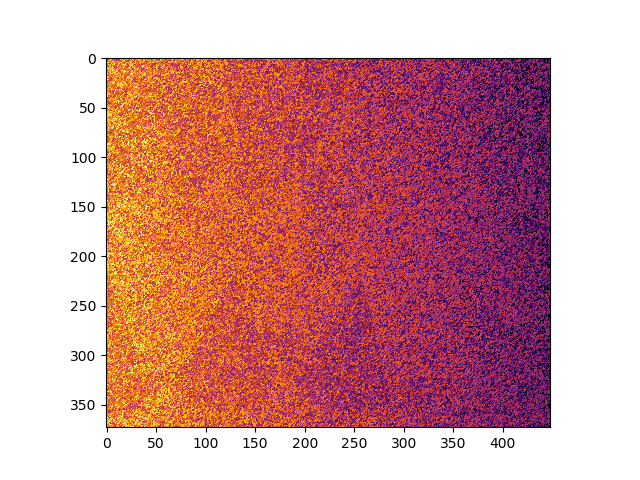
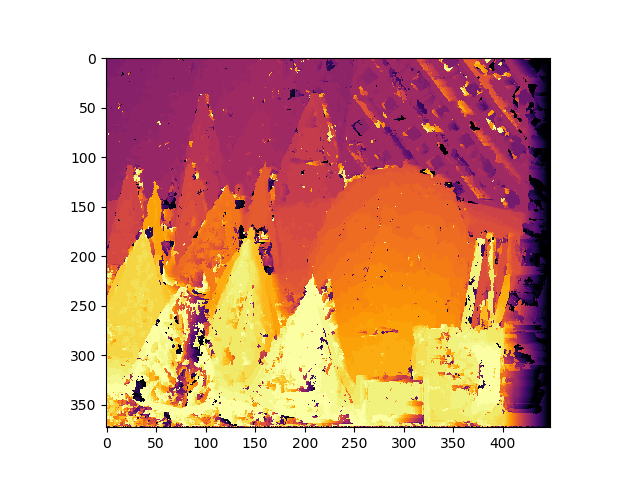
working for padding of 50

diff --git a/patchMatch.py b/patchMatch.py
@@ -1,82 +1,78 @@
 import matplotlib.pyplot as plt
 import numpy as np
+import time
 
 INTMAX = 99999999
 
 
 def get_patches(image):
-    height, width, depth = image.shape
-    patches = np.zeros((height-2, width-2, 3, 3, depth))
-    for x in range(1, height-1):
-        for y in range(1, width-1):
-            patches[x-1][y-1] = image[x-1:x+2, y-1:y+2, :]
+    height, width = image.shape
+    patches = np.zeros((height-2, width-2, 5, 5))
+    for x in range(2, height-2):
+        for y in range(2, width-2):
+            patches[x-1][y-1] = image[x-2:x+3, y-2:y+3]
     return patches
 
 
 class PatchMatch:
-    def __init__(self, left_path='left.png', right_path='left.png', output_path='patchMatch.png'):
+    def __init__(self, left_path='left.png', right_path='right.png', output_path='patchMatch.png'):
         self.output_path = output_path
 
         self.left_img = plt.imread(left_path)
         self.right_img = plt.imread(right_path)
 
-        # self.left_grey = np.mean(self.left_img, axis=2)
-        # self.right_grey = np.mean(self.right_img, axis=2)
-        self.imgHeight, self.imgWidth, self.imgDepth = np.shape(self.left_img)
+        self.left_grey = np.mean(self.left_img, axis=2)
+        self.right_grey = np.mean(self.right_img, axis=2)
+        self.imgHeight, self.imgWidth = np.shape(self.right_grey)
 
-        self.left_patches = get_patches(self.left_img)
-        self.right_patches = get_patches(self.right_img)
+        self.left_patches = get_patches(self.left_grey)
+        self.right_patches = get_patches(self.right_grey)
         self.offsets = self.initialize_offsets()
-        self.new_offsets = np.empty_like(self.offsets)
+        self.new_offsets = self.offsets.copy()
 
     def initialize_offsets(self):
-        offsets = np.zeros((self.imgHeight-2, self.imgWidth-2, 2), dtype=int)
-        for x in range(self.imgHeight-2):
-            for y in range(self.imgWidth-2):
-                x_rand = np.random.randint(0, self.imgHeight-2)
-                y_rand = np.random.randint(0, self.imgWidth-2)
-                offsets[x][y] = np.array([x_rand-x, y_rand-y])
-        return offsets
+        offsets = np.zeros((self.right_patches.shape[0], self.right_patches.shape[1]), dtype=int).T
+        for i, row in enumerate(offsets[:-1]):
+            row += np.random.randint(0, high=min(self.right_patches.shape[1]-i-1, 50), size=row.shape)
+        return offsets.T
 
     def patch_distance_error(self, x, y, offset):
-        x_offset, y_offset = offset
-        if x+x_offset < 0 or \
-                x+x_offset >= self.right_patches.shape[0] or \
-                y+y_offset < 0 or \
-                y+y_offset >= self.right_patches.shape[1]:
+        if y+offset >= self.right_patches.shape[1]:
             return INTMAX
-        left_patch = self.left_patches[x][y]
-        right_patch = self.right_patches[x+x_offset][y+y_offset]
-        distance_error = np.sum(np.abs(left_patch-right_patch))
+        right_patch = self.right_patches[x][y]
+        left_patch = self.left_patches[x][y+offset]
+        distance_error = np.sum(np.square(right_patch-left_patch))
         return distance_error
 
     def propagate_patch(self, x, y):
-        offset_args = [self.offsets[x][y], self.offsets[x-1][y], self.offsets[x][y-1]]
+        offset_args = [self.offsets[x][y],
+                       self.offsets[x-1][y],
+                       self.offsets[x][y-1],
+                       self.offsets[x+1][y],
+                       self.offsets[x][y+1]]
         distance_errors = [self.patch_distance_error(x, y, offset_arg) for offset_arg in offset_args]
         best_offset = offset_args[int(np.argmin(distance_errors))]
         self.new_offsets[x][y] = best_offset
 
     def propagate(self):
-        for x in np.arange(1, np.shape(self.left_patches)[0]):
-            for y in np.arange(1, np.shape(self.left_patches)[1]):
+        for x in np.arange(1, np.shape(self.right_patches)[0]-1):
+            for y in np.arange(1, np.shape(self.right_patches)[1]-1):
                 self.propagate_patch(x, y)
-        self.offsets = self.new_offsets
+        self.offsets = self.new_offsets.copy()
 
     def random_search(self):
-        x_radius, y_radius = int((self.imgHeight-2)/2), int((self.imgWidth-2)/2)
-        while x_radius > 0 and y_radius > 0:
+        radius = 50
+        while radius > 0:
             for x, row in enumerate(self.offsets):
-                for y, offset in enumerate(row):
-                    curr_x, curr_y = offset[0], offset[1]
-                    new_x = np.random.randint(max(0, x+curr_x-x_radius), min(self.imgHeight-2, x+curr_x+x_radius))-x
-                    new_y = np.random.randint(max(0, y+curr_y-y_radius), min(self.imgWidth-2, y+curr_y+y_radius))-y
-                    if self.patch_distance_error(x, y, offset) > self.patch_distance_error(x, y, [new_x, new_y]):
-                        offset[0], offset[1] = new_x, new_y
-            x_radius, y_radius = int(x_radius/2), int(y_radius/2)
+                for y, offset in enumerate(row[:-1]):
+                    new_offset = np.random.randint(max(0, offset-radius),
+                                                   high=min(self.right_patches.shape[1]-y-1, 50, offset+radius))
+                    if self.patch_distance_error(x, y, offset) > self.patch_distance_error(x, y, new_offset):
+                        self.offsets[x][y] = new_offset
+            radius = int(radius/4)
 
-    def visualize(self):
-        print("Displaying disparity map...")
-        plt.imshow(self.offsets[:, :, 1], cmap="inferno")
+    def visualize(self, outfile='patchMatch.png'):
+        plt.imshow(np.abs(self.offsets), cmap="inferno")
         plt.savefig('patchMatch.png')
 
     def train(self, iterations):
@@ -89,6 +85,15 @@ class PatchMatch:
 
 
 if __name__ == "__main__":
+    # Start a timer
+    tic = time.process_time()
+
+    # Calculate Map
     patch_match = PatchMatch()
-    patch_match.train(1)
+    patch_match.train(4)
     patch_match.visualize()
+
+    # Display compute time.
+    toc = time.process_time()
+    elapsed = toc - tic
+    print("Calculating disparity map took {0:.2f} min.\n".format(elapsed / 60.0))

diff --git a/classicStereo.py b/classicStereo.py
@@ -2,35 +2,12 @@ import matplotlib.pyplot as plt
 import numpy as np
 import time
 
+# Start a timer
+tic = time.process_time()
+
 # Read the two images
 left = plt.imread('left.png')
 right = plt.imread('right.png')
-
-# ===================================
-#       Display Composite Image
-# ===================================
-
-# Create a composite image out of the two stereo images.
-leftRed = left[:, :, :2]
-
-# Take the green and blue color channels from the right image.
-rightGreenBlue = right[:, :, 2:]
-
-# Combine the above channels into a single composite image using the 'cat'
-# function, which concatenates the matrices along dimension '3'.
-composite = np.concatenate((leftRed, rightGreenBlue), axis=2)
-
-# Show the composite image.
-# plt.imshow(composite)
-# plt.show()
-
-
-# ====================================
-#        Basic Block Matching
-# ====================================
-
-# Start a timer
-tic = time.process_time()
 
 # Convert the images from RGB to grayscale by
 # averaging the three color channels.
@@ -132,25 +109,14 @@ for m in range(imgHeight):
             DbasicSubpixel[m, n] = d - (0.5 * (C3 - C1) / (C1 - (2 * C2) + C3))
 
     # Update progress every 10th row.
-    print("  Image row {0:d} / {1:d} {2:.2f}%".format(m, imgHeight, (m / imgHeight) * 100))
+    if m % 10 == 0:
+        print("  Image row {0:d} / {1:d} {2:.2f}%".format(m, imgHeight, (m / imgHeight) * 100))
 
 # Display compute time.
 toc = time.process_time()
 elapsed = toc - tic
 print("Calculating disparity map took {0:.2f} min.\n".format(elapsed / 60.0))
 
-# =========================================
-#        Visualize Disparity Map
-# =========================================
-
-print("Displaying disparity map...")
-
-# Display the disparity map.
-# Passing an empty matrix as the second argument tells imshow to take the
-# minimum and maximum values of the data and map the data range to the
-# display colors.
+# Display the Disparity Map
 plt.imshow(DbasicSubpixel, cmap="inferno")
-
-# Set the title to display.
-plt.title("Basic block matching, Sub-px acc., Search right, Block size = " + str(blockSize))
-plt.show()
+plt.savefig('classicStereo.png', )
